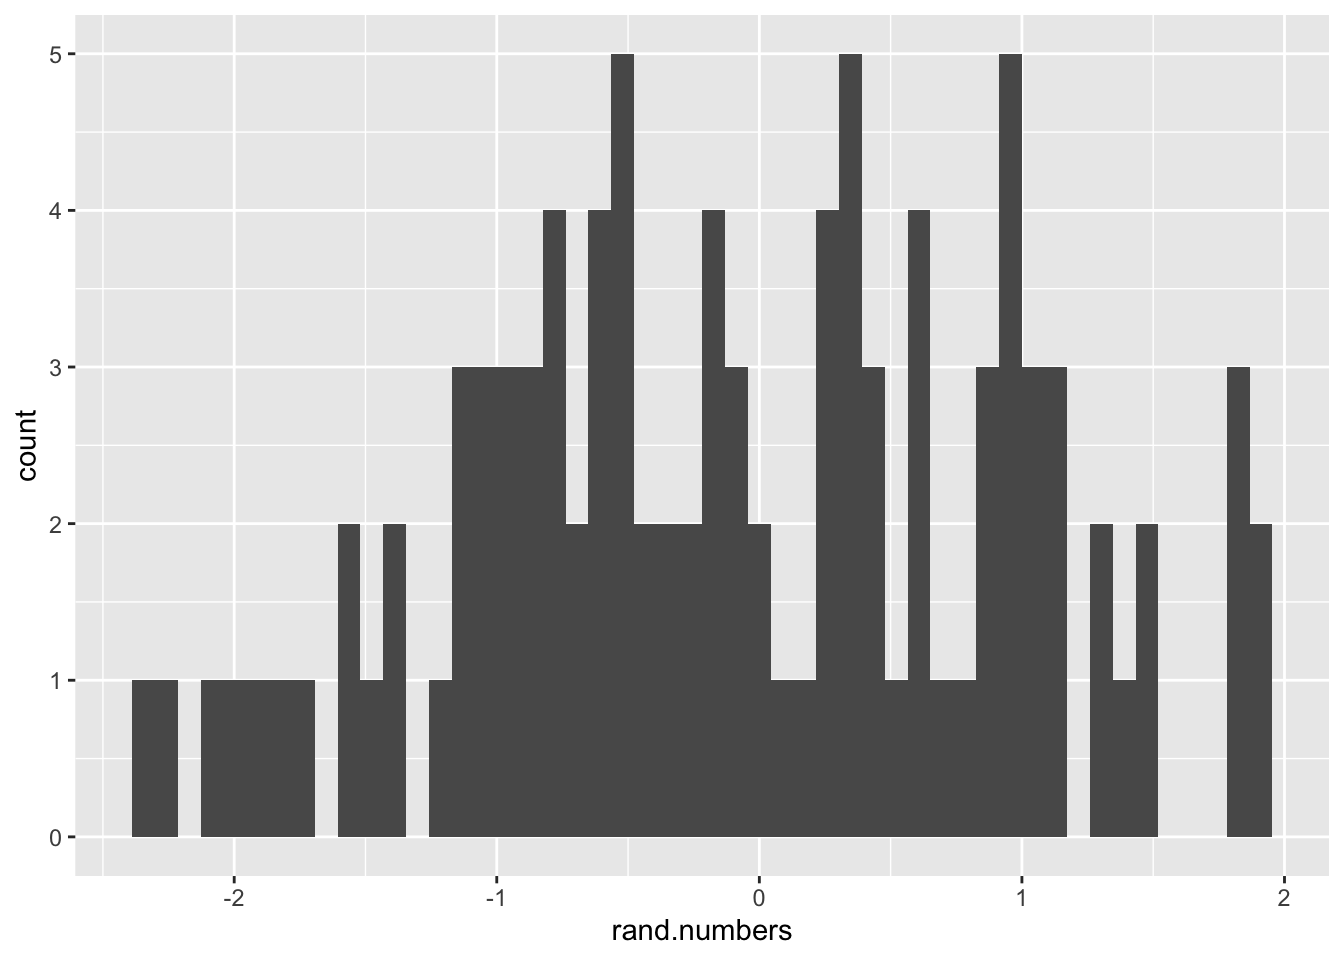
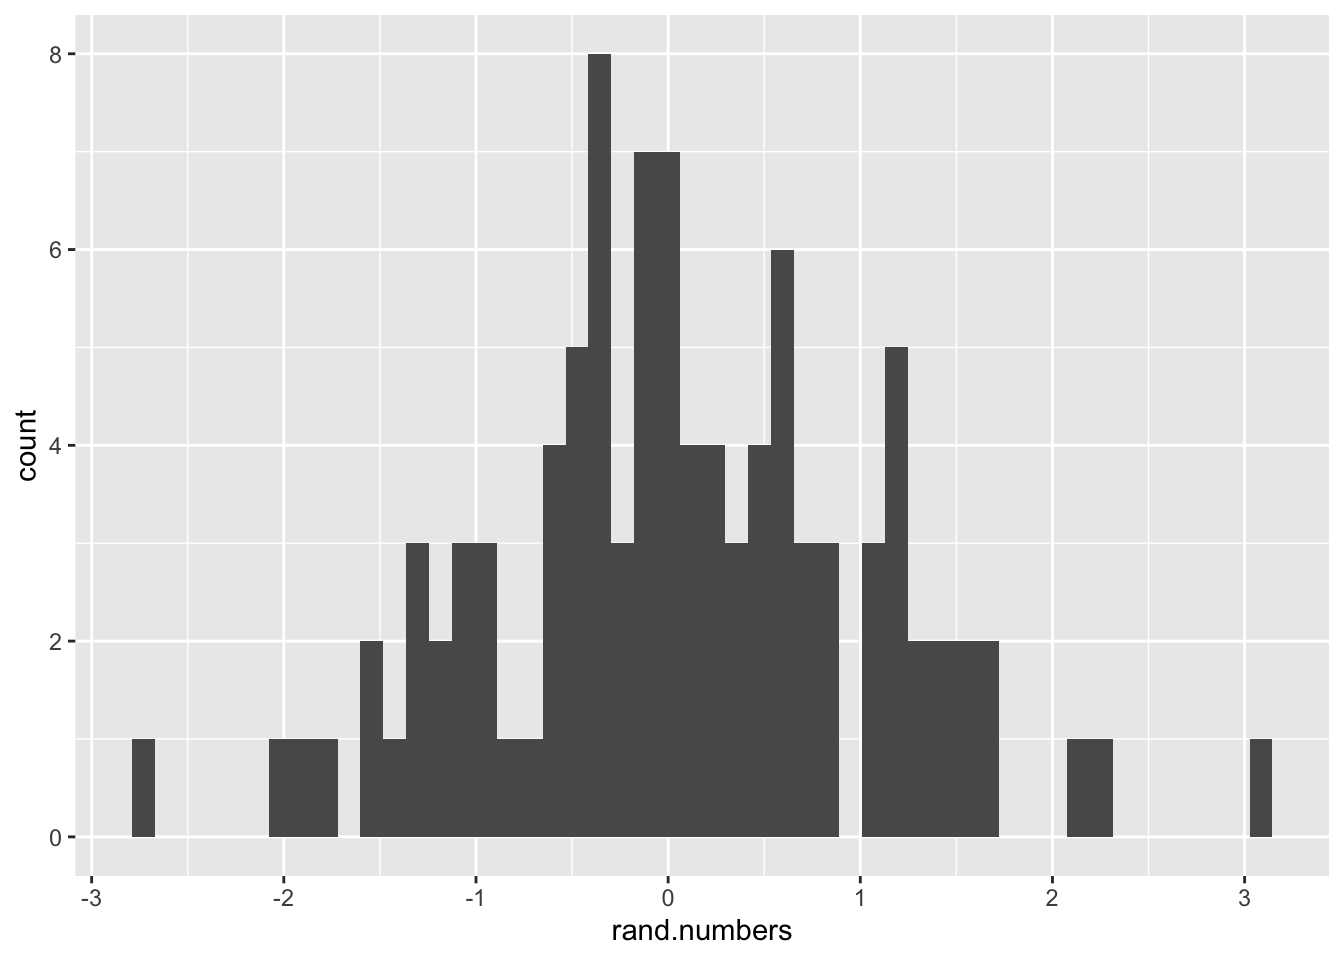
published book

diff --git a/_book/index.html b/_book/index.html
@@ -385,16 +385,16 @@ We can create a data frame using the <code>data.frame()</code> function. We can 
 <span id="cb22-2"><a href="#cb22-2" tabindex="-1"></a>m <span class="ot">&lt;-</span> <span class="fu">rnorm</span>(<span class="dv">30</span>)   <span class="co"># generate 30 random numbers for the matrix</span></span>
 <span id="cb22-3"><a href="#cb22-3" tabindex="-1"></a>Mat <span class="ot">&lt;-</span> <span class="fu">matrix</span>(<span class="at">data =</span> m, <span class="at">nrow =</span> <span class="dv">6</span>)</span>
 <span id="cb22-4"><a href="#cb22-4" tabindex="-1"></a>Mat</span></code></pre></div>
-<pre><code>##            [,1]       [,2]        [,3]       [,4]       [,5]
-## [1,] -0.2011624 -0.6003618  1.47313804  0.6260198 -0.1787008
-## [2,]  0.3629898 -1.0195838 -0.07675708  1.6970822 -1.5491711
-## [3,] -0.2957898 -0.4259755  2.31250993 -1.3577016 -1.0993858
-## [4,]  0.2373952  0.6590040  0.06718808 -1.4969804 -0.0371185
-## [5,]  0.4979651 -0.9105043  1.12500755 -1.8610748 -1.0381731
-## [6,] -0.9430711  1.6429358  0.58359167  0.8421483 -0.2063092</code></pre>
+<pre><code>##              [,1]       [,2]       [,3]       [,4]        [,5]
+## [1,] -0.643664483 -0.3695408  1.4657595  0.1779335 -0.44748441
+## [2,] -0.931089667  3.1929910  0.1459249 -0.4340365 -0.04390189
+## [3,]  0.994935127  0.3442942 -0.7468991 -1.1240146  0.93798614
+## [4,] -0.177227184 -0.8705866 -0.5317729  0.9787338 -0.89453060
+## [5,]  0.006026459 -0.8130856  0.5622329  0.9421085  0.14074624
+## [6,] -0.069394567 -0.9850643  0.9011125  0.3164920  0.85431960</code></pre>
 <div class="sourceCode" id="cb24"><pre class="sourceCode r"><code class="sourceCode r"><span id="cb24-1"><a href="#cb24-1" tabindex="-1"></a><span class="co">#Next, we want to determine the minimum value of each row: </span></span>
 <span id="cb24-2"><a href="#cb24-2" tabindex="-1"></a><span class="fu">apply</span>(Mat, <span class="dv">1</span>, min)</span></code></pre></div>
-<pre><code>## [1] -0.6003618 -1.5491711 -1.3577016 -1.4969804 -1.8610748 -0.9430711</code></pre>
+<pre><code>## [1] -0.6436645 -0.9310897 -1.1240146 -0.8945306 -0.8130856 -0.9850643</code></pre>
 <blockquote>
 <p>What happens if you change the “1” in the apply function to “2”? Try it!</p>
 </blockquote>
@@ -417,15 +417,15 @@ We can create a data frame using the <code>data.frame()</code> function. We can 
 <pre><code>## [1]  2  4  6  8 10</code></pre>
 <div class="sourceCode" id="cb30"><pre class="sourceCode r"><code class="sourceCode r"><span id="cb30-1"><a href="#cb30-1" tabindex="-1"></a><span class="co"># apply()</span></span>
 <span id="cb30-2"><a href="#cb30-2" tabindex="-1"></a>Mat </span></code></pre></div>
-<pre><code>##            [,1]       [,2]        [,3]       [,4]       [,5]
-## [1,] -0.2011624 -0.6003618  1.47313804  0.6260198 -0.1787008
-## [2,]  0.3629898 -1.0195838 -0.07675708  1.6970822 -1.5491711
-## [3,] -0.2957898 -0.4259755  2.31250993 -1.3577016 -1.0993858
-## [4,]  0.2373952  0.6590040  0.06718808 -1.4969804 -0.0371185
-## [5,]  0.4979651 -0.9105043  1.12500755 -1.8610748 -1.0381731
-## [6,] -0.9430711  1.6429358  0.58359167  0.8421483 -0.2063092</code></pre>
+<pre><code>##              [,1]       [,2]       [,3]       [,4]        [,5]
+## [1,] -0.643664483 -0.3695408  1.4657595  0.1779335 -0.44748441
+## [2,] -0.931089667  3.1929910  0.1459249 -0.4340365 -0.04390189
+## [3,]  0.994935127  0.3442942 -0.7468991 -1.1240146  0.93798614
+## [4,] -0.177227184 -0.8705866 -0.5317729  0.9787338 -0.89453060
+## [5,]  0.006026459 -0.8130856  0.5622329  0.9421085  0.14074624
+## [6,] -0.069394567 -0.9850643  0.9011125  0.3164920  0.85431960</code></pre>
 <div class="sourceCode" id="cb32"><pre class="sourceCode r"><code class="sourceCode r"><span id="cb32-1"><a href="#cb32-1" tabindex="-1"></a><span class="fu">apply</span>(Mat, <span class="dv">1</span>, <span class="cf">function</span>(x) {<span class="fu">sum</span>(x<span class="sc">*</span><span class="dv">2</span>)}) <span class="co">#the operation is performed on every row of &quot;Mat&quot;; every element is multiplied by two and the sum of the row is calculated</span></span></code></pre></div>
-<pre><code>## [1]  2.237866 -1.170880 -1.732685 -1.141023 -4.373559  3.838591</code></pre>
+<pre><code>## [1]  0.3660065  3.8597757  0.8126035 -2.9907669  1.6760570  2.0349306</code></pre>
 <p>Besides, we can use <code>sapply()</code> for a <strong>list</strong>, for example to calculate the length of every element using <code>length()</code>:</p>
 <div class="sourceCode" id="cb34"><pre class="sourceCode r"><code class="sourceCode r"><span id="cb34-1"><a href="#cb34-1" tabindex="-1"></a>List1 <span class="ot">&lt;-</span> <span class="fu">list</span>(<span class="at">color =</span> <span class="fu">c</span>(<span class="st">&quot;blue&quot;</span>, <span class="st">&quot;red&quot;</span>), <span class="at">size =</span> <span class="dv">5</span>, <span class="at">state =</span> <span class="fu">c</span>(<span class="cn">TRUE</span>, <span class="cn">FALSE</span>, <span class="cn">TRUE</span>, <span class="cn">TRUE</span>))</span>
 <span id="cb34-2"><a href="#cb34-2" tabindex="-1"></a></span>
@@ -516,13 +516,13 @@ We can create a data frame using the <code>data.frame()</code> function. We can 
 <div class="sourceCode" id="cb48"><pre class="sourceCode r"><code class="sourceCode r"><span id="cb48-1"><a href="#cb48-1" tabindex="-1"></a><span class="fu">install.packages</span>(<span class="st">&quot;tidyverse&quot;</span>)</span></code></pre></div>
 <p>And load it using</p>
 <div class="sourceCode" id="cb49"><pre class="sourceCode r"><code class="sourceCode r"><span id="cb49-1"><a href="#cb49-1" tabindex="-1"></a><span class="fu">library</span>(tidyverse)</span></code></pre></div>
-<pre><code>## ── Attaching core tidyverse packages ────────── tidyverse 2.0.0 ──
+<pre><code>## ── Attaching core tidyverse packages ──────────────────────────────── tidyverse 2.0.0 ──
 ## ✔ dplyr     1.1.4     ✔ readr     2.1.5
 ## ✔ forcats   1.0.0     ✔ stringr   1.5.1
 ## ✔ ggplot2   3.4.4     ✔ tibble    3.2.1
 ## ✔ lubridate 1.9.3     ✔ tidyr     1.3.1
 ## ✔ purrr     1.0.2     
-## ── Conflicts ──────────────────────────── tidyverse_conflicts() ──
+## ── Conflicts ────────────────────────────────────────────────── tidyverse_conflicts() ──
 ## ✖ dplyr::filter() masks stats::filter()
 ## ✖ dplyr::lag()    masks stats::lag()
 ## ℹ Use the conflicted package (&lt;http://conflicted.r-lib.org/&gt;) to force all conflicts to become errors</code></pre>
@@ -535,15 +535,15 @@ We can create a data frame using the <code>data.frame()</code> function. We can 
 <p>We can print the first rows of a dataframe using <code>head()</code>. Try it out.</p>
 <div class="sourceCode" id="cb53"><pre class="sourceCode r"><code class="sourceCode r"><span id="cb53-1"><a href="#cb53-1" tabindex="-1"></a><span class="fu">head</span>(msleep)</span></code></pre></div>
 <pre><code>## # A tibble: 6 × 11
-##   name    genus vore  order conservation sleep_total sleep_rem sleep_cycle awake
-##   &lt;chr&gt;   &lt;chr&gt; &lt;chr&gt; &lt;chr&gt; &lt;chr&gt;              &lt;dbl&gt;     &lt;dbl&gt;       &lt;dbl&gt; &lt;dbl&gt;
-## 1 Cheetah Acin… carni Carn… lc                  12.1      NA        NA      11.9
-## 2 Owl mo… Aotus omni  Prim… &lt;NA&gt;                17         1.8      NA       7  
-## 3 Mounta… Aplo… herbi Rode… nt                  14.4       2.4      NA       9.6
-## 4 Greate… Blar… omni  Sori… lc                  14.9       2.3       0.133   9.1
-## 5 Cow     Bos   herbi Arti… domesticated         4         0.7       0.667  20  
-## 6 Three-… Brad… herbi Pilo… &lt;NA&gt;                14.4       2.2       0.767   9.6
-## # ℹ 2 more variables: brainwt &lt;dbl&gt;, bodywt &lt;dbl&gt;</code></pre>
+##   name   genus vore  order conservation sleep_total sleep_rem sleep_cycle awake  brainwt
+##   &lt;chr&gt;  &lt;chr&gt; &lt;chr&gt; &lt;chr&gt; &lt;chr&gt;              &lt;dbl&gt;     &lt;dbl&gt;       &lt;dbl&gt; &lt;dbl&gt;    &lt;dbl&gt;
+## 1 Cheet… Acin… carni Carn… lc                  12.1      NA        NA      11.9 NA      
+## 2 Owl m… Aotus omni  Prim… &lt;NA&gt;                17         1.8      NA       7    0.0155 
+## 3 Mount… Aplo… herbi Rode… nt                  14.4       2.4      NA       9.6 NA      
+## 4 Great… Blar… omni  Sori… lc                  14.9       2.3       0.133   9.1  0.00029
+## 5 Cow    Bos   herbi Arti… domesticated         4         0.7       0.667  20    0.423  
+## 6 Three… Brad… herbi Pilo… &lt;NA&gt;                14.4       2.2       0.767   9.6 NA      
+## # ℹ 1 more variable: bodywt &lt;dbl&gt;</code></pre>
 </div>
 <div id="filter-based-on-conditions" class="section level3 unnumbered hasAnchor">
 <h3>Filter based on conditions<a href="#filter-based-on-conditions" class="anchor-section" aria-label="Anchor link to header"></a></h3>
@@ -552,10 +552,10 @@ We can do it using <code>filter()</code> on the <strong>genus</strong> column:</
 <div class="sourceCode" id="cb55"><pre class="sourceCode r"><code class="sourceCode r"><span id="cb55-1"><a href="#cb55-1" tabindex="-1"></a>msleep <span class="sc">%&gt;%</span></span>
 <span id="cb55-2"><a href="#cb55-2" tabindex="-1"></a>  <span class="fu">filter</span>(genus <span class="sc">==</span> <span class="st">&quot;Sus&quot;</span>)</span></code></pre></div>
 <pre><code>## # A tibble: 1 × 11
-##   name  genus vore  order   conservation sleep_total sleep_rem sleep_cycle awake
-##   &lt;chr&gt; &lt;chr&gt; &lt;chr&gt; &lt;chr&gt;   &lt;chr&gt;              &lt;dbl&gt;     &lt;dbl&gt;       &lt;dbl&gt; &lt;dbl&gt;
-## 1 Pig   Sus   omni  Artiod… domesticated         9.1       2.4         0.5  14.9
-## # ℹ 2 more variables: brainwt &lt;dbl&gt;, bodywt &lt;dbl&gt;</code></pre>
+##   name  genus vore  order   conservation sleep_total sleep_rem sleep_cycle awake brainwt
+##   &lt;chr&gt; &lt;chr&gt; &lt;chr&gt; &lt;chr&gt;   &lt;chr&gt;              &lt;dbl&gt;     &lt;dbl&gt;       &lt;dbl&gt; &lt;dbl&gt;   &lt;dbl&gt;
+## 1 Pig   Sus   omni  Artiod… domesticated         9.1       2.4         0.5  14.9    0.18
+## # ℹ 1 more variable: bodywt &lt;dbl&gt;</code></pre>
 <p>We also use the <code>%&gt;%</code> operator here. This is a <strong>pipe operator</strong> and you will use it very often.</p>
 <p>To understand piping, let’s imagine you are making a three layer cake in a factory. Instead of manually carrying the cake from one station to another to add layers and frosting, you have a conveyor belt transporting the cake through the stations automatically to make the process much more efficient. Piping avoids that you have to create multiple intermediate objects to achieve your final result when performing multiple functions.</p>
 <blockquote>
